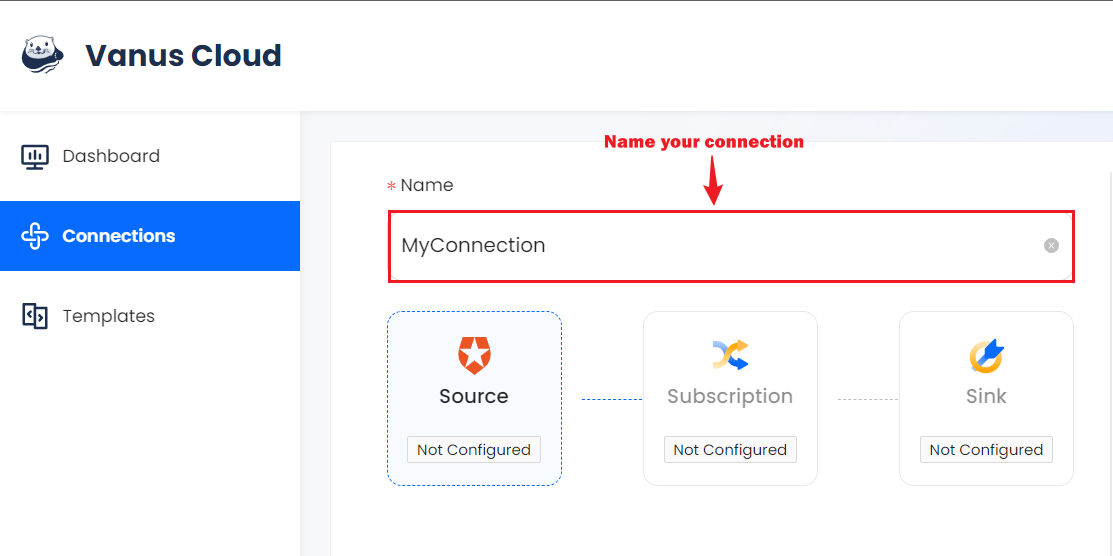
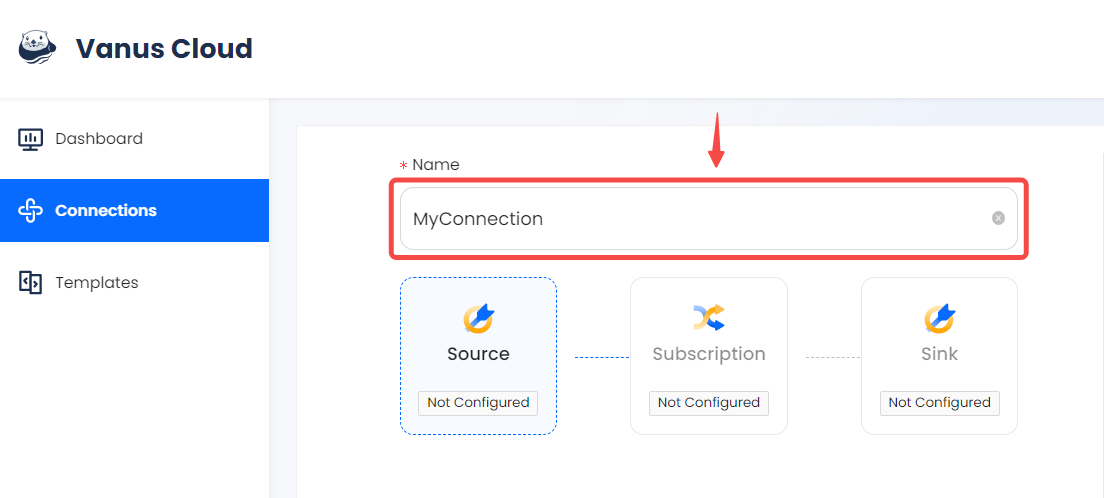
auth0 new screenshots (#426)

diff --git a/content/user-guides/connector-guides/source/auth0/setup.md b/content/user-guides/connector-guides/source/auth0/setup.md
@@ -20,9 +20,9 @@ Before obtaining Auth0 events, you must have:
 ### Create your connection in Vanus Cloud
 
 1. Write a name for your connection.
-[img.png](images/1.png)
+![](images/1.png)
 2. After you finish creating the connection, there will be more steps. Please click the link to open a new tab with the following instruction.
-![](images/webhook_setup.png)
+![](images/2.png)
 3. Click **Next** and continue the configuration.
 
 
